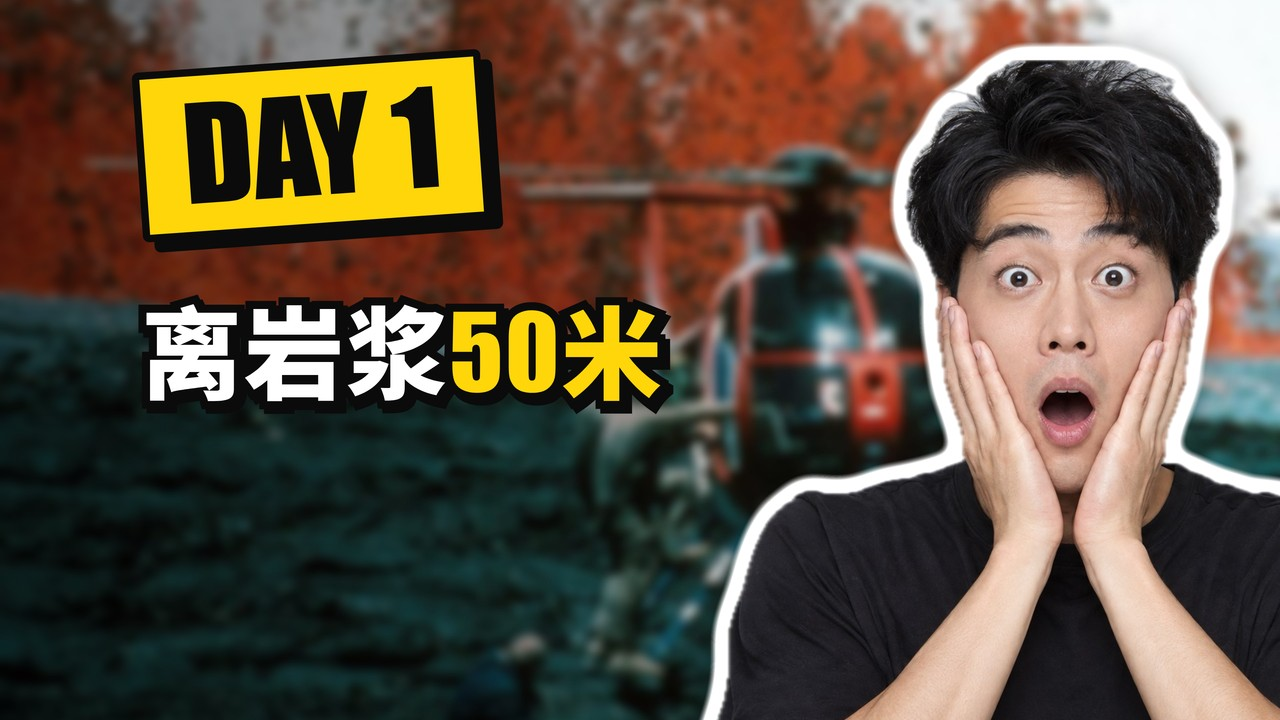
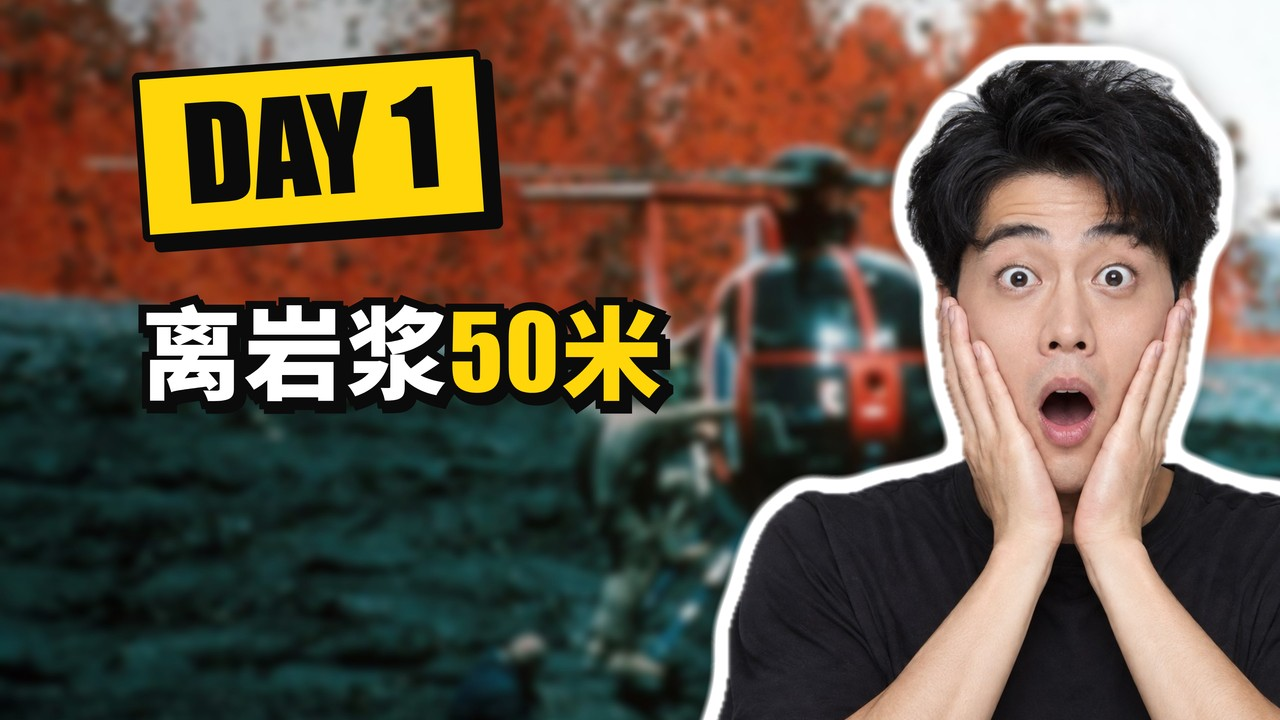
fix(genres): lighten the scrim under outlined headlines
The headline-side scrim was 0.62 for every lettering style, so a
well-lit photo (luma 105) came out dark (75) on scene-title. Outlined
letters carry their own edge contrast, so the scrim only has to calm
the detail under them: cap it at 0.35, the top of the 15-35% darkening
range in the research. Soft-shadow letters keep the full strength.

diff --git a/src/genres/genres.test.ts b/src/genres/genres.test.ts
@@ -31,7 +31,7 @@ import {
     genreTemplate,
     parseGenre,
 } from './index.ts';
-import { fontKit, type GenrePhoto } from './page.ts';
+import { fontKit, type GenrePhoto, localScrim } from './page.ts';
 import { isLightScheme, SCHEME_NAMES, SCHEMES } from './schemes.ts';
 import { splitLabelRects } from './split.ts';
 import { parseStyle, STYLE_NAMES, type StyleName, styledType } from './styles.ts';
@@ -387,6 +387,23 @@ describe('schemes', () => {
                 );
             }
         }
+    });
+});
+
+describe('local scrim', () => {
+    const layout = familyLayout('landscape');
+    const peak = (css: string) => Number(/rgba\(0, 0, 0, ([\d.]+)\) 100%/.exec(css)?.[1]);
+
+    it('only quiets the detail under outlined letters', () => {
+        for (const style of ['outline', 'double'] as const) {
+            const type = { style, font: FONTS.choose('heavy') };
+            expect(peak(localScrim(layout, 'top', type, 0.62).css), style).toBe(0.35);
+        }
+    });
+
+    it('keeps the full strength under soft letters, which lean on it', () => {
+        const type = { style: 'soft' as const, font: FONTS.choose('serif') };
+        expect(peak(localScrim(layout, 'top', type, 0.62).css)).toBe(0.62);
     });
 });
 

diff --git a/src/genres/page.ts b/src/genres/page.ts
@@ -359,6 +359,10 @@ export function photoLayers(
     };
 }
 
+// 描边的字（outline、double）自己带着字边的对比，渐变只需压住字下面的细节，
+// 取 research.md 背景压暗 15-35% 的上限。软投影的字靠渐变托住，用类型给的强度。
+const OUTLINED_SCRIM = 0.35;
+
 /**
  * 局部压暗：只压字所在的那一侧，从字外一截开始由透明渐变到深色。整张压暗的封面在信息流里
  * 一贯吃亏（1of10 30 万条），字的可读性靠这块渐变加字自己的描边。
@@ -366,8 +370,13 @@ export function photoLayers(
 export function localScrim(
     layout: CoverLayout,
     side: 'bottom' | 'top' | 'left' | 'right',
-    strength = 0.58,
+    type: TypeSpec,
+    softStrength = 0.58,
 ): Layers {
+    const strength =
+        type.style === 'outline' || type.style === 'double'
+            ? Math.min(softStrength, OUTLINED_SCRIM)
+            : softStrength;
     const area = layout.textArea;
     const reach = 0.7;
     let rect: Rect;

diff --git a/src/genres/face.ts b/src/genres/face.ts
@@ -457,7 +457,7 @@ export function faceStakesTemplate(request: FaceStakesRequest): CoverTemplate {
                     request.look ?? 'natural',
                     { deep: scheme.baseDeep, accent: scheme.type.accent },
                 ),
-                localScrim(layout, portrait ? 'top' : 'left'),
+                localScrim(layout, portrait ? 'top' : 'left', type),
             );
             // 身后是人站的那块场景（已经虚化），量它的平均亮度。
             const rect = placeSubject(layout, request.subject, FACE_STAKES_SHARE);

diff --git a/src/genres/photo.ts b/src/genres/photo.ts
@@ -145,6 +145,7 @@ function photoTemplate(request: PhotoGenreRequest, mode: PhotoMode): CoverTempla
                 localScrim(
                     layout,
                     textOnTop(layout) ? 'top' : 'bottom',
+                    type,
                     kind === 'mood' ? 0.38 : 0.62,
                 ),
             );

diff --git a/CHANGELOG.md b/CHANGELOG.md
@@ -6,6 +6,7 @@
 - A product never stands on the bottom edge like a person does: it is fitted whole into the part of its side the platforms show, so it is never cropped.
 - **Cleaner cutout edges.** A photo cut out on macOS no longer carries a rim of its old background: the soft edge takes the colour of the subject, and the faintest outer pixels are dropped. The edge stays soft and hair keeps its strands. A transparent PNG you bring is still used exactly as it is. Earlier cutouts in the cache are made again once.
 - **The scene behind a stakes cover shows its subject.** `face-stakes` used to centre the scene's subject, which on landscape covers is exactly where the headline meets the person, so the helicopter or the landmark ended up under the words. It now goes to the person's shoulder on every family, and when the photo is too narrow to slide there, the blurred scene is zoomed in up to 1.5 times. The `--fit extend` hint frames the photo the same way.
+- **Photo covers stay bright.** `scene-title`, `callout`, and `face-stakes` darkened the headline's side of the picture as hard for outlined words as for soft ones, so a well-lit photo came out dark. Outlined words carry their own edge, so the shade under them is now light, just enough to calm the detail. `editorial` and `brush` words, which have no outline, keep the full shade.
 - **`--outline sticker` for a product.** `product` shows the thing bare by default. `--outline clean` or `--outline sticker` puts a white edge around it, which reads as 种草 sticker and hides a rough cutout. On light schemes a thin dark line keeps the white edge off the background.
 
 ## 0.7.6 (2026-09-28)
